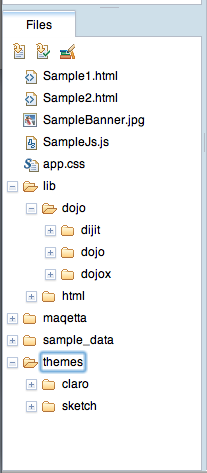
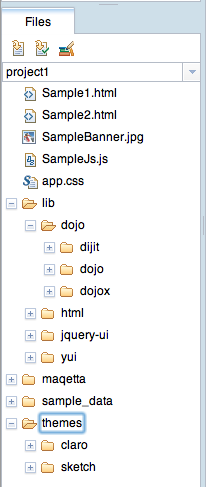
Updates to tutorial on exporting ZIP to Eclipse

Changed region(s): [[0.0, 0.0, 1.0, 1.0], [0.9612, 0.444, 0.9903, 0.4736], [0.9612, 0.296, 0.9903, 0.3256]]

diff --git a/davinci.core/WebContent/docs/tutorials/tutorial5.html b/davinci.core/WebContent/docs/tutorials/tutorial5.html
@@ -26,11 +26,13 @@
 	developers, who transform the prototype incrementally into a production application.</p>
 <p>	This tutorial introduces the features in Maqetta that help with the 
 	designer-to-developer hand-off. The tutorial starts by introducing some important
-	concepts. The tutorial then highlights the product's export-as-ZIP and workspace management features.</p>
+	concepts. The tutorial then highlights the product's export-as-ZIP and workspace management features,
+	including the ability to create Eclipse-compatible projects.</p>
 
 <a name="exploring_workspace_html_files"><h2>Exploring the Maqetta workspace</h2></a>
 
-<p>When you launch Maqetta for the first time, Maqetta creates a default workspace. The picture below
+<p>When you launch Maqetta for the first time, Maqetta creates a default workspace
+and a default project ("project1"). The picture below
 shows the default workspace:
 </p>
 
@@ -75,20 +77,20 @@ shows the default workspace:
 			<div class="note">
 				<div>Maqetta includes a <em>release</em> distribution of Dojo in your workspace.</div>
 				<div>A <em>release</em> distribution contains
-				compressed versions of JavaScript and CSS files. The Dojo 1.6.1 release distribution can be found at 
-				<a href="http://download.dojotoolkit.org/release-1.6.1/dojo-release-1.6.1.zip">http://download.dojotoolkit.org/release-1.6.1/dojo-release-1.6.1.zip</a>.</div>
-				<div>In contrast, <em>source</em> distributions contain uncompressed versions of JavaScript and CSS
+				compressed versions of JavaScript and CSS files. Both release and full source
+				distributions for the Dojo toolkit can be found at 
+				<a href="http://download.dojotoolkit.org/">http://download.dojotoolkit.org/</a>.
+				Source distributions contain uncompressed versions of JavaScript and CSS
 				files and include various other files useful to developers, such as build utilities,
 				demos, test files and documentation.
-				The Dojo 1.6.1 source distribution can be found at 
-				<a href="http://download.dojotoolkit.org/release-1.6.1/dojo-release-1.6.1-src.zip">http://download.dojotoolkit.org/release-1.6.1/dojo-release-1.6.1-src.zip</a>.</div>
 			</div>
 		</li>
 		<li>At <a href="http://maqetta.org">Maqetta.org</a>, you will also see
 			<code>jQuery/</code> and <code>YUI</code> subfolders within the <code>libs/</code> folder.
-			These subfolders are present because <a href="http://maqetta.org">Maqetta.org</a>, 
-			the application also includes
-			widgets from the <code>jQuery/</code> and <code>YUI</code> libraries.
+			These subfolders are present because the version of the application
+			posted at <a href="http://maqetta.org">Maqetta.org</a> 
+			includes some
+			widgets from the <code>jQuery</code> and <code>YUI</code> libraries.
 			<div class="note">
 				<div>Maqetta has a general architecture that allows arbitrary JavaScript toolkits
 					and arbitrary widget libraries to plug in. With the current release,
@@ -356,19 +358,25 @@ created by Maqetta into a production application.
 		depends on the needs and constraints of the team that will receive the ZIP.
 		Usually, you will want to collaborate with your development team to find out
 		whether they want or do not want the libaries and/or themes within the ZIP.
-		Two common scenarios:</p>
+		Three common scenarios:</p>
 		<ul>
+			<li><em>You probably would include all JavaScript libraries and themes if</em>
+			you want the contents of the download ZIP to be a totally self-contained, runnable
+			application that you can install on an arbitrary web server or localhost server.</li>
+			<li><em>You probably would include a particular JavaScript libraries if</em>
+			you have created an Eclipse-compatible project (see discussion of Eclipse-compatible projects below)
+			and are handing the ZIP off to a development team that is using the Eclipse IDE.
+			By including the JavaScript libraries, you will be providing a ZIP file that
+			contains the equivalent of a self-contained Eclipse web project.</li>
 			<li><em>You probably would <strong>not</strong> include a particular JavaScript libraries if</em>
-			you are handing the ZIP off to a development team that is familiar
+			you are handing the ZIP off to a development team that is not using Eclipse and is familiar
 			with the JavaScript libraries you are using in the UI mockups. The development
 			team might not want the JavaScript libraries included in the ZIP because they
 			may already have copies of the JavaScript libraries on their development systems
 			and it is wasteful to include these (usually quite large) components if not needed.</li>
-			<li><em>You probably would include all JavaScript libraries and themes if</em>
-			you want the contents of the download ZIP to be a totally self-contained, runnable
-			application that you can install on an arbitrary web server or localhost server.</li>
 		</ul>
 	</li>
+	<br/><br/>
 	<li><strong>Relocate particular libraries</strong> - 
 		Sometimes the development team sets up their folder hierarchy differently than
 		how Maqetta sets up user workspaces. For example, by default Maqetta places
@@ -409,10 +417,65 @@ you won't need to relocate JavaScript libraries for each new ZIP file.
 Maqetta will automatically fix up all HTML files in your workspace
 to take into account the new location(s) for your JavaScript libraries.</p>
 
-<a name="exploring_workspace_html_files"><h2>Exporting to IBM Rational Application Developer (TM) 8.0</h2></a>
+<a name="exporting_self_contained"><h2>Exporting self-contained projects to the Eclipse IDE and IBM Rational Application Developer (TM) 8.0</h2></a>
+
+<p>This section is relevant to web development teams that use the Eclipse IDE or IBM Rational Application Developer (RAD) 8.0
+and want to export a fully self-contained Eclipse project that can be imported simply into the Eclipse IDE.</p>
+
+
+<p>Here are steps for creating a self-contained, Eclipse-compatible project, exporting as a ZIP, unzipping into your Eclipse workspace, and 
+then importing the project into Eclipse:</p>
+
+<ul>
+<li>Before you create your HTML and CSS content, invoke the "New Project" command (found on the <b>New</b>
+menu at the top of the application). In the dialog that appears, click on the "Eclipse support" checkbox. 
+<div class="note">
+This will create a new project in your Maqetta workspace. Because of the "Eclipse support" checkbox, the new project
+will have a file hierarchy that matches the default file hierarchy used by the Eclipse IDE when creating
+a web project. In particular, Maqetta will create a <code>WebContent/</code> folder. Additionally, 
+Maqetta under the hood will create all of the hidden "dot files" (i.e., files whose name begins with a "." character)
+used by the Eclipse IDE when managing web projects.
+</div>
+</li>
+
+<li>After creating your Eclipse-compatible new project in Maqetta, then use the Maqetta visual page editor 
+to create HTML pages. Make sure that your HTML files are all within the <code>WebContent/</code> folder
+becauses that is what Eclipse expects.</li>
+
+<li>Click on the Download Entire Workspace icon
+<img src="img/download.gif" title="Download Entire Workspace" style="width:16px;height:16px;display:inline-block;margin:0;padding:0;"/>
+within the Files palette and then click OK in the dialog that appears to accept the default options and start the download process.</li>
+
+<li>Wait until the browser has completed the download.
+(Because Dojo is included in the ZIP, the download might take some time to complete.)</li>
+
+<li>On the same system where the Eclipse IDE is running, create a new folder (e.g., <code>maqetta_project1/</code>) 
+somewhere on the disk.
+Unzip the contents of the ZIP file into that folder.
+When completed, you should see the <code>WebContent/</code> folder as a direct child of the new folder
+(i.e., you should see <code>maqetta_project1/WebContent</code>).
+<div class="note">
+Warning about moving files around: Maqetta exports various "dot files" (i.e., hidden files that begin
+with the letter "."). If you use the system explorer or finder to rearrange files and folders,
+make sure that the dot files are moved along with any files or folders you move.
+</div>
+</li>
+
+<li>In Eclipse, from the File menu, issue an Import command and choose "General>Existing Project Into Workspace". 
+In the wizard that follows, choose the parent folder of the folder you created 
+(e.g., the parent folder for <code>maqetta_project1/</code>). You should see the folder you created
+(e.g., <code>maqetta_project1/</code>) in the list
+of projects to import. Make sure the checkbox next to that folder is checked and then click "Finish".
+</li>
+<li>At this point, you should be able to use Eclipse features to edit the project you just imported.</li>
+</ul>
+
+
+<a name="exporting_without_Dojo"><h2>Exporting projects to IBM Rational Application Developer (TM) 8.0 without including the Dojo toolkit</h2></a>
 
 <p>This section is relevant to web development teams that use IBM Rational Application Developer (RAD) 8.0
-in conjunction with the Dojo Toolkit.</p>
+in conjunction with the Dojo Toolkit when the development team does not want the ZIP file exported from Maqetta to include
+the Dojo toolkit inside.</p>
 
 <p>To demonstrate Maqetta integration with RAD:</p>
 <ul>
